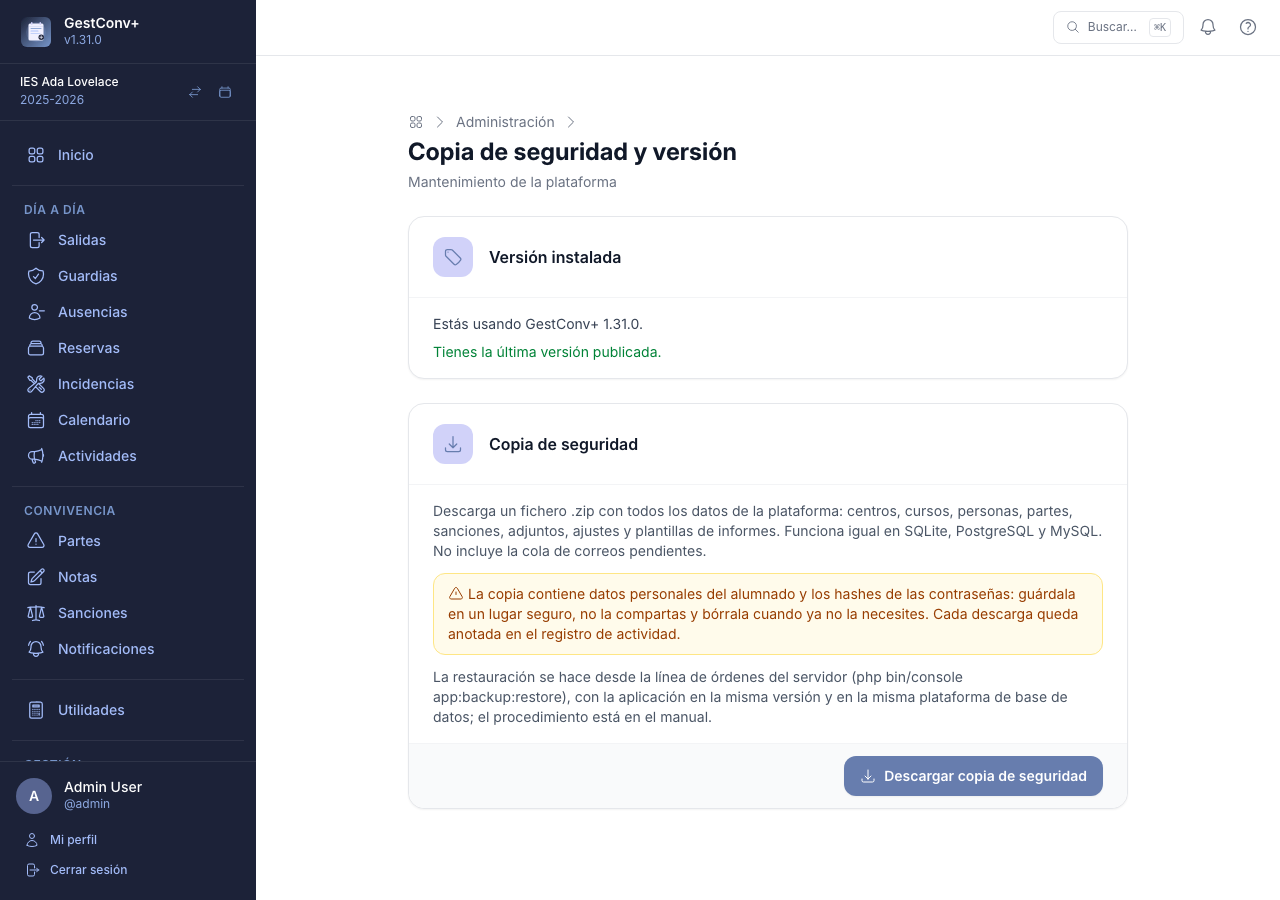
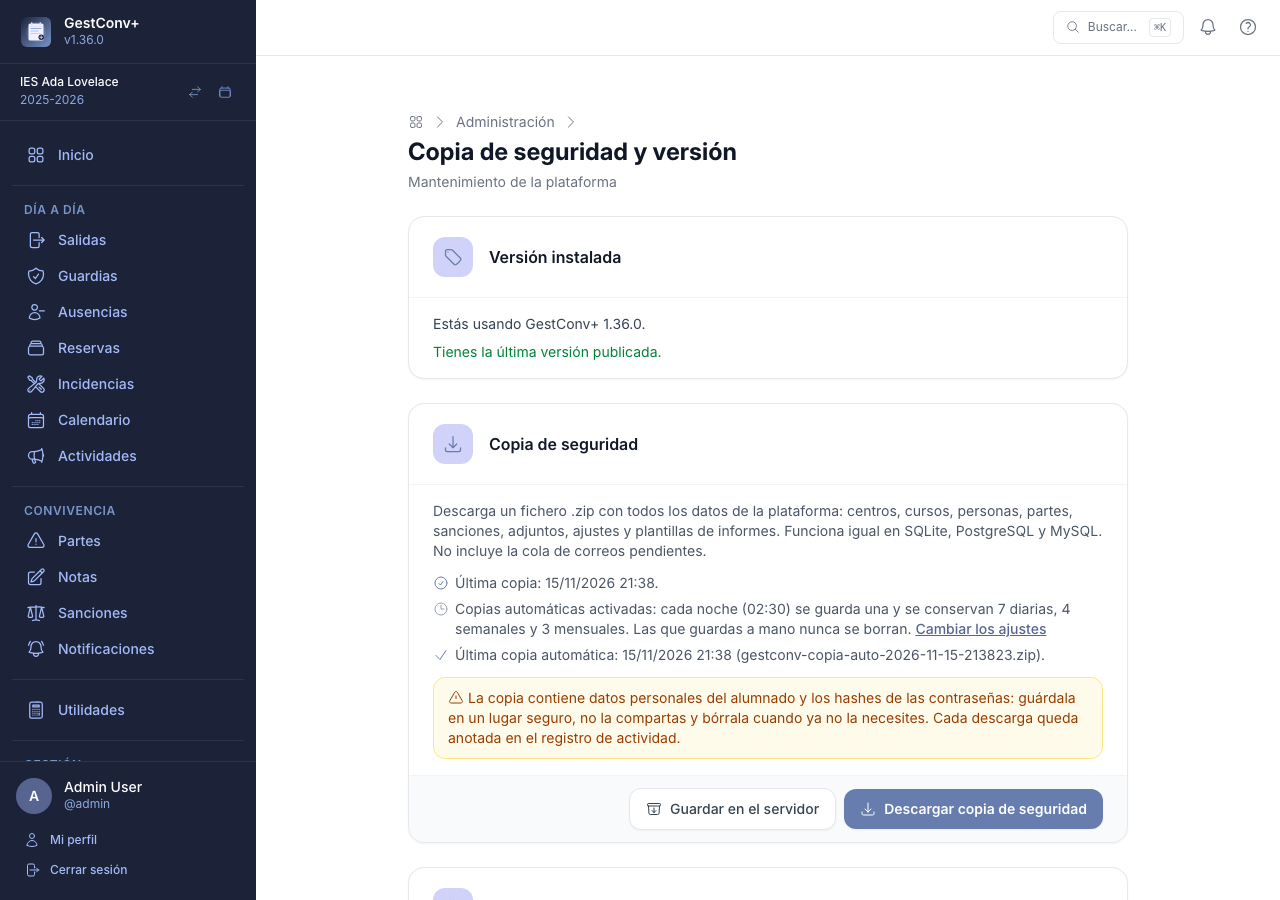
docs: capturas del estado del sistema y las copias automáticas en el manual; ajustes de copias en su propia categoría con etiquetas cortas; botón Restaurar con zona táctil suficiente

diff --git a/tests/Integration/ControllerTestCase.php b/tests/Integration/ControllerTestCase.php
@@ -120,8 +120,8 @@ abstract class ControllerTestCase extends WebTestCase
             ['reports.student_footer', SettingType::RichText, '<p>En {city} a {current_day} de {current_month_name} de {current_year}</p>', true, true, false, 0, 5000, 'settings.category.reports', 60, 330, null],
             ['reports.student_pdf_template', SettingType::Pdf, '', false, true, false, null, null, 'settings.category.report_templates', 65, 130, null],
             ['updates.check_enabled', SettingType::Boolean, 'true', true, false, false, null, null, 'settings.category.maintenance', 5, 20, null],
-            ['backup.auto_policy', SettingType::Choice, 'off', true, false, false, null, null, 'settings.category.backup', 6, 10, 'off,basic,recommended,extended'],
-            ['backup.auto_max_size_mb', SettingType::Integer, '0', true, false, false, 0, 1048576, 'settings.category.backup', 6, 20, null],
+            ['backup.auto_policy', SettingType::Choice, 'off', true, false, false, null, null, 'settings.category.backup', 7, 10, 'off,basic,recommended,extended'],
+            ['backup.auto_max_size_mb', SettingType::Integer, '0', true, false, false, 0, 1048576, 'settings.category.backup', 7, 20, null],
             ['reports.analytics_header_left',   SettingType::RichText, '<p><strong>{title}</strong></p>', true, true, false, 0,  5000, 'settings.category.reports', 60, 340, null],
             ['reports.analytics_header_right',  SettingType::RichText, '<p>{centre_name}</p>',            true, true, false, 0,  5000, 'settings.category.reports', 60, 350, null],
             ['reports.analytics_header_margin', SettingType::Integer,  '22',                              true, true, false, 10, 80,   'settings.category.reports', 60, 360, null],

diff --git a/migrations/sqlite/Version20260101000085.php b/migrations/sqlite/Version20260101000085.php
@@ -25,11 +25,11 @@ final class Version20260101000085 extends AbstractMigration
 
         // Los ids van como parámetro con los 16 bytes del UUID, que es como los envía Doctrine en SQLite (ver la migración 050).
         $this->addSql(
-            "INSERT INTO setting_definition (id, key, type, default_value, global_scope, centre_scope, teacher_scope, min_value, max_value, choices, category, category_order, position) VALUES (?, 'backup.auto_policy', 'choice', 'off', 1, 0, 0, NULL, NULL, 'off,basic,recommended,extended', 'settings.category.backup', 6, 10)",
+            "INSERT INTO setting_definition (id, key, type, default_value, global_scope, centre_scope, teacher_scope, min_value, max_value, choices, category, category_order, position) VALUES (?, 'backup.auto_policy', 'choice', 'off', 1, 0, 0, NULL, NULL, 'off,basic,recommended,extended', 'settings.category.backup', 7, 10)",
             [Uuid::v4()->toBinary()]
         );
         $this->addSql(
-            "INSERT INTO setting_definition (id, key, type, default_value, global_scope, centre_scope, teacher_scope, min_value, max_value, choices, category, category_order, position) VALUES (?, 'backup.auto_max_size_mb', 'integer', '0', 1, 0, 0, 0, 1048576, NULL, 'settings.category.backup', 6, 20)",
+            "INSERT INTO setting_definition (id, key, type, default_value, global_scope, centre_scope, teacher_scope, min_value, max_value, choices, category, category_order, position) VALUES (?, 'backup.auto_max_size_mb', 'integer', '0', 1, 0, 0, 0, 1048576, NULL, 'settings.category.backup', 7, 20)",
             [Uuid::v4()->toBinary()]
         );
     }

diff --git a/migrations/mysql/Version20260101000085.php b/migrations/mysql/Version20260101000085.php
@@ -24,8 +24,8 @@ final class Version20260101000085 extends AbstractMigration
 
         $this->addSql(<<<'SQL'
             INSERT INTO setting_definition (id, `key`, type, default_value, global_scope, centre_scope, teacher_scope, min_value, max_value, choices, category, category_order, position) VALUES
-                (UNHEX(REPLACE(UUID(), '-', '')), 'backup.auto_policy', 'choice', 'off', 1, 0, 0, NULL, NULL, 'off,basic,recommended,extended', 'settings.category.backup', 6, 10),
-                (UNHEX(REPLACE(UUID(), '-', '')), 'backup.auto_max_size_mb', 'integer', '0', 1, 0, 0, 0, 1048576, NULL, 'settings.category.backup', 6, 20)
+                (UNHEX(REPLACE(UUID(), '-', '')), 'backup.auto_policy', 'choice', 'off', 1, 0, 0, NULL, NULL, 'off,basic,recommended,extended', 'settings.category.backup', 7, 10),
+                (UNHEX(REPLACE(UUID(), '-', '')), 'backup.auto_max_size_mb', 'integer', '0', 1, 0, 0, 0, 1048576, NULL, 'settings.category.backup', 7, 20)
         SQL);
     }
 

diff --git a/migrations/postgresql/Version20260101000085.php b/migrations/postgresql/Version20260101000085.php
@@ -24,8 +24,8 @@ final class Version20260101000085 extends AbstractMigration
 
         $this->addSql(<<<'SQL'
             INSERT INTO setting_definition (id, key, type, default_value, global_scope, centre_scope, teacher_scope, min_value, max_value, choices, category, category_order, position) VALUES
-                (gen_random_uuid(), 'backup.auto_policy', 'choice', 'off', TRUE, FALSE, FALSE, NULL, NULL, 'off,basic,recommended,extended', 'settings.category.backup', 6, 10),
-                (gen_random_uuid(), 'backup.auto_max_size_mb', 'integer', '0', TRUE, FALSE, FALSE, 0, 1048576, NULL, 'settings.category.backup', 6, 20)
+                (gen_random_uuid(), 'backup.auto_policy', 'choice', 'off', TRUE, FALSE, FALSE, NULL, NULL, 'off,basic,recommended,extended', 'settings.category.backup', 7, 10),
+                (gen_random_uuid(), 'backup.auto_max_size_mb', 'integer', '0', TRUE, FALSE, FALSE, 0, 1048576, NULL, 'settings.category.backup', 7, 20)
         SQL);
     }
 

diff --git a/docs/manual/13-administrar-la-plataforma.md b/docs/manual/13-administrar-la-plataforma.md
@@ -13,7 +13,7 @@ reúne en tarjetas la gestión de toda la plataforma: centros educativos, usuari
 personal no docente), registro de actividad, copia de seguridad y versión instalada, estado del
 sistema (si el worker funciona y si hay mensajes fallidos) y ajustes globales.
 
-![Panel de Administración con las tarjetas de usuarios, centros, registro de actividad, copia de seguridad y versión, y ajustes globales](img/admin/admin-sistema-tarjeta.png)
+![Panel de Administración con las tarjetas de usuarios, centros, registro de actividad, copia de seguridad y versión (con la fecha de la última copia), estado del sistema y ajustes globales](img/admin/admin-sistema-tarjeta.png)
 
 ### Centros educativos
 
@@ -750,7 +750,7 @@ aplicación, plataforma, fecha y filas de cada tabla) y un fichero por tabla. Qu
 correos pendientes y el registro interno de migraciones. Cada descarga se anota en el
 [registro de actividad](#registro-de-actividad).
 
-![Página «Copia de seguridad y versión»: versión instalada y botón para descargar la copia, con el aviso sobre los datos personales](img/admin/admin-copia-seguridad.png)
+![Página «Copia de seguridad y versión»: versión instalada, botones para descargar o guardar la copia, fecha de la última copia y estado de las copias automáticas](img/admin/admin-copia-seguridad.png)
 
 !!! warning "La copia contiene datos personales"
     Incluye datos del alumnado y los *hashes* de las contraseñas. Guárdala cifrada y en otra máquina,
@@ -789,6 +789,8 @@ antes de las purgas nocturnas) en esa misma carpeta. Vienen **desactivadas** y s
 |---|---|---|
 | Copias automáticas | Política de conservación: *Desactivadas*, *Básica* (7 diarias), *Recomendada* (7 diarias, 4 semanales y 3 mensuales, unos tres meses atrás) o *Ampliada* (14 diarias, 8 semanales y 12 mensuales, hasta un año atrás) | Desactivadas |
 | Espacio máximo de las copias automáticas (MB) | Tope de espacio entre todas ellas; 0 = sin límite | 0 |
+
+![Ajustes globales, categoría «Copias de seguridad»: política «Recomendada» y espacio máximo sin límite](img/admin/admin-copias-automaticas.png)
 
 Con el tiempo, la poda va dejando la copia más reciente de cada día, de cada semana y de cada mes que
 pida la política y borra el resto, de modo que se puede volver atrás aunque un problema se descubra tarde.
@@ -960,6 +962,8 @@ antes obligaba a abrir una consola:
 - **Espacio.** Tamaño de la base de datos (ficheros incluidos), de las copias de seguridad guardadas y
   espacio libre en el disco donde se guardan. Cada copia ocupa tanto como la base de datos.
 - **Copias de seguridad.** El aviso de «última copia» y el resultado de la última copia automática.
+
+![Pantalla «Estado del sistema»: worker en marcha, un mensaje fallido con los botones Reintentar y Descartar, correo de prueba, espacio ocupado y estado de las copias](img/admin/admin-estado-sistema.png)
 
 No existe ninguna ruta de salud sin autenticar: todo esto requiere iniciar sesión como administrador global.
 
